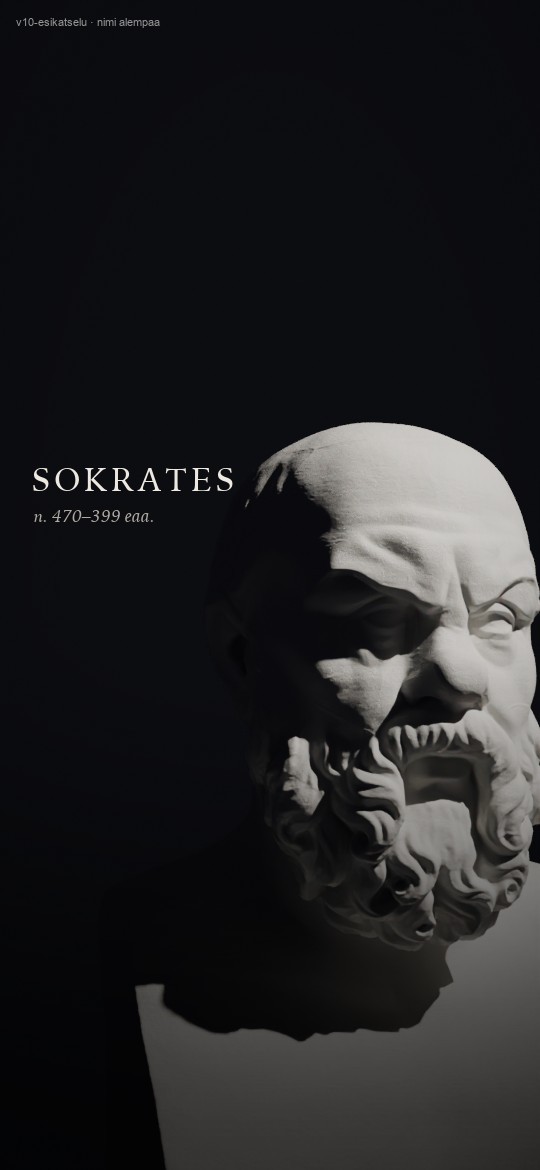
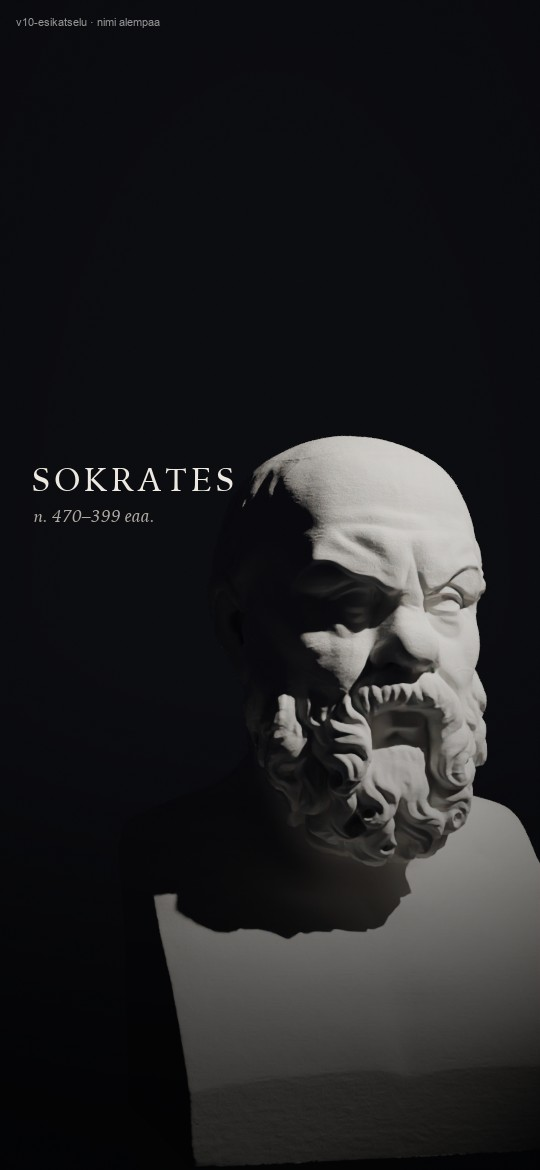
Linnanrakentaja: Sokrates v10: nimikuva kauempaa (koko kasvot ja parta kuvassa)

Changed region(s): [[0.237, 0.3385, 1.0, 1.0]]

diff --git a/tools/linssit/blender/sokrates_bysti.py b/tools/linssit/blender/sokrates_bysti.py
@@ -783,7 +783,7 @@ V7_OTOKSET = (  # (ruutu, kameran paikka, katsepiste, polttoväli mm); ruutu = m
     (282, (-0.30, -1.02, 0.40), (-0.06, -0.06, 0.36), 35), # loppusointu (60,6 s): Rembrandt + nimi
 )
 if '--v10' in A:   # omistaja 2.10. 10.3x: nimi ja vuodet alempaa, katse kasvoihin ylöspäin
-    V7_OTOKSET = V7_OTOKSET[:-1] + ((282, (-0.30, -1.02, 0.25), (-0.08, -0.06, 0.40), 35),)   # pää oikealle, nimelle tilaa
+    V7_OTOKSET = V7_OTOKSET[:-1] + ((282, (-0.36, -1.24, 0.24), (-0.075, -0.06, 0.39), 35),)   # pää oikealle, nimelle tilaa
 V7_VALO = ((1, (0.55, 0.85, 0.30)), (119, (0.9, 0.55, 0.35)), (236, (1.0, -0.05, 0.6)), (259, (0.85, -0.45, 0.75)),
            (282, (0.70, -0.70, 0.85)))
 if KOHDE == 'marcus':   # tuuheat kiharat ja parta varjostavat enemmän → aurinko alkaa sivummalta, jotta kasvot näkyvät
